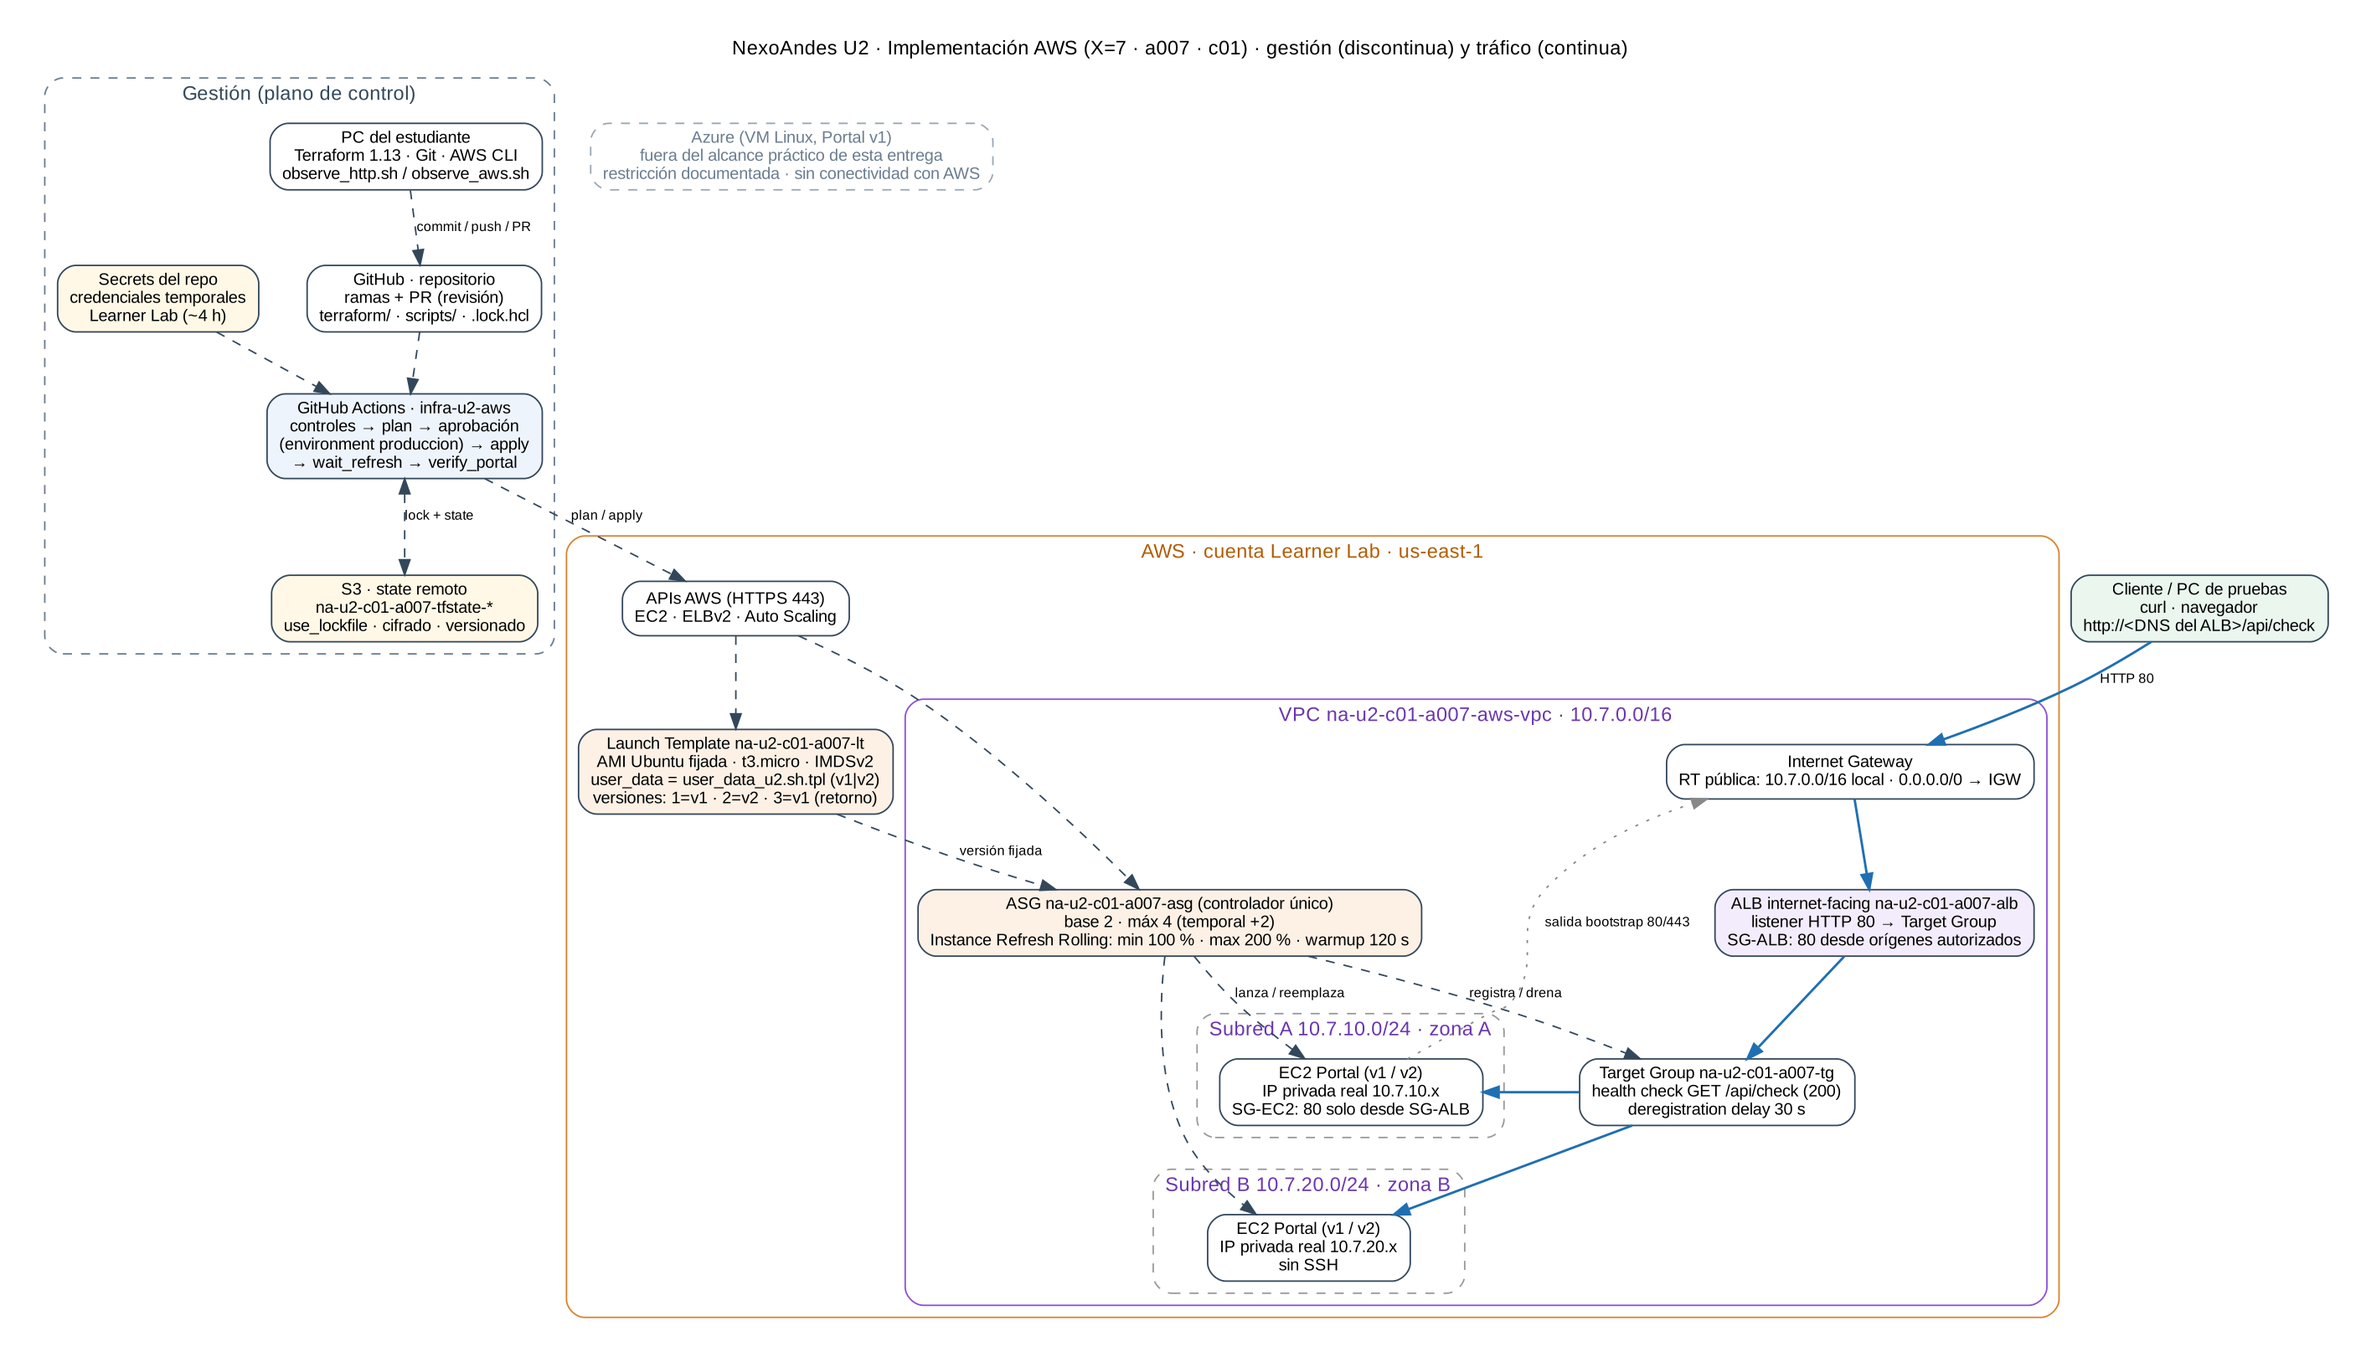
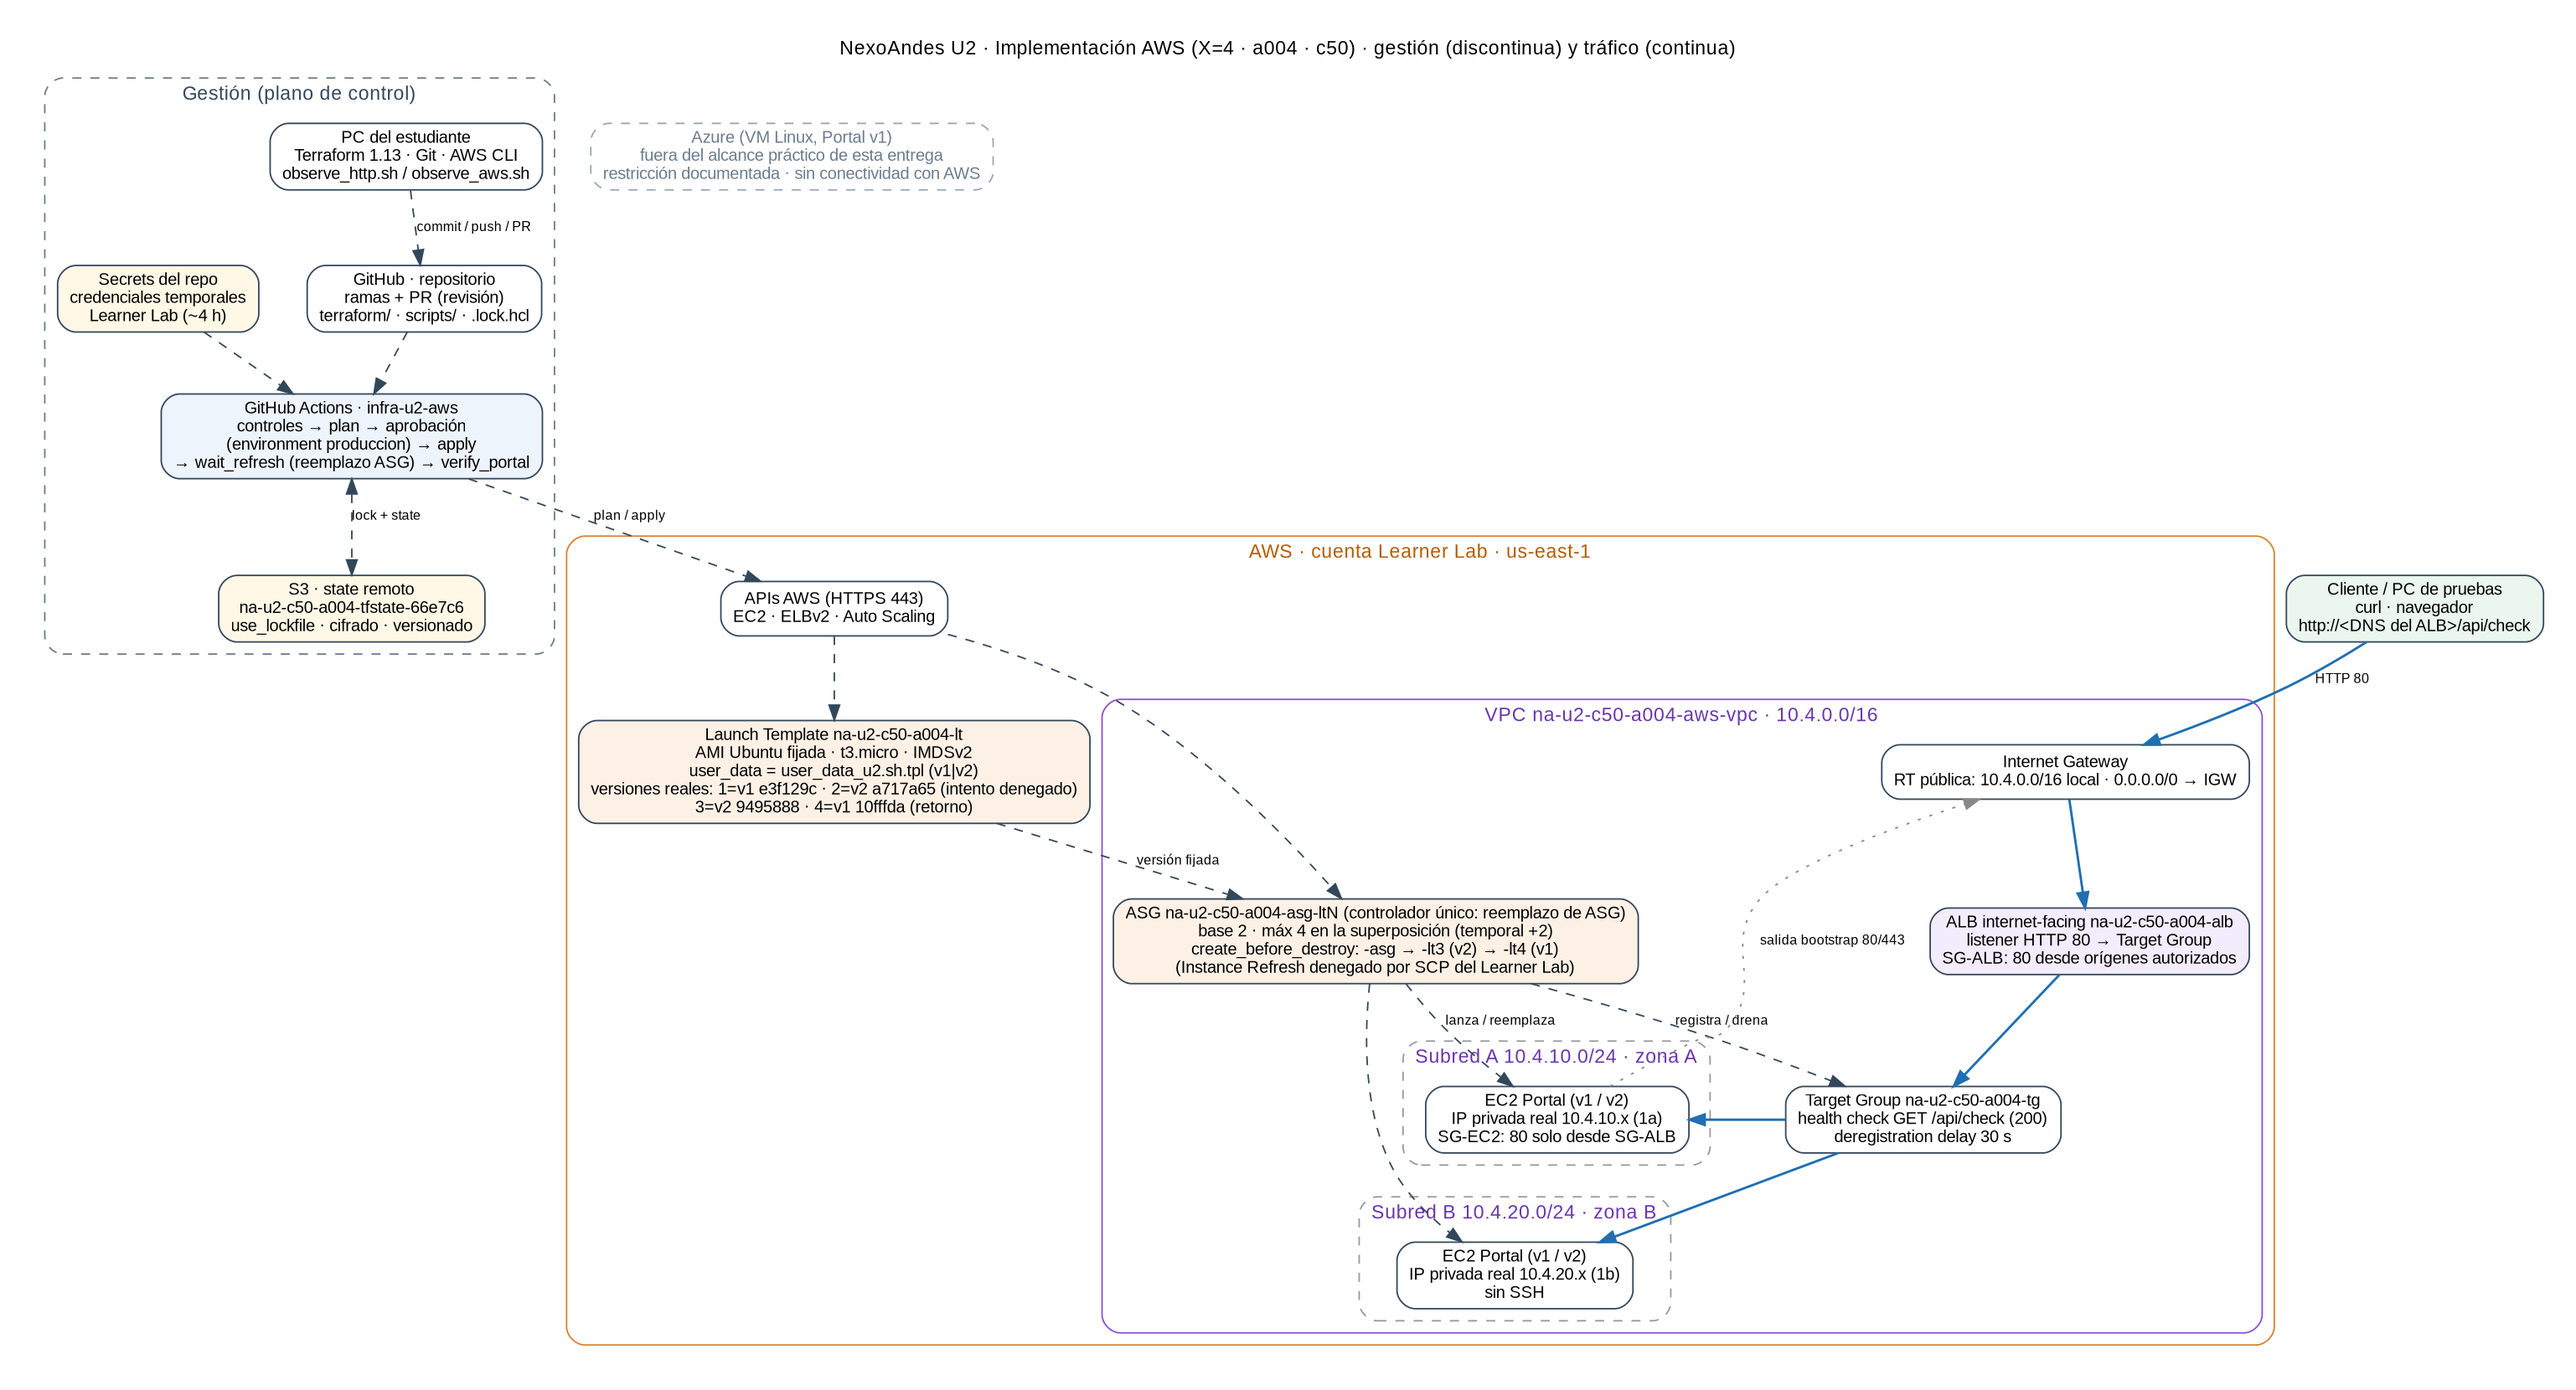
docs: diagrama con valores reales, decisiones adaptadas y declaración de IA

diff --git a/README.md b/README.md
@@ -10,7 +10,7 @@ Identidad de laboratorio: **X=4 · alumno a004 · curso c50** · prefijo `na-u2-
 |---|---|
 | `terraform/` | Orquestación root: `versions.tf`, `providers.tf`, `variables.tf`, `main.tf`, `outputs.tf`, `terraform.tfvars`, `.terraform.lock.hcl` |
 | `terraform/modules/aws_network` | VPC 10.X.0.0/16, subred A 10.X.10.0/24 y B 10.X.20.0/24 en zonas distintas, IGW y rutas |
-| `terraform/modules/aws_portal` | SG-ALB / SG-EC2, ALB + listener HTTP 80, Target Group (`/api/check`), Launch Template versionada (IMDSv2), ASG con Instance Refresh |
+| `terraform/modules/aws_portal` | SG-ALB / SG-EC2, ALB + listener HTTP 80, Target Group (`/api/check`), Launch Template versionada (IMDSv2), ASG `-asg-ltN` reemplazado por versión (create_before_destroy) |
 | `terraform/templates/user_data_u2.sh.tpl` | Artefacto docente del Portal (sin modificar), renderizado con `templatefile()` |
 | `.github/workflows/infra-u2.yml` | Pipeline: controles → plan → aprobación (`produccion`) → apply → espera del controlador → verificación |
 | `scripts/` | Observación (`observe_http.sh`, `observe_aws.sh`), análisis (`analyze_window.py`), consultas independientes (`capture_state.sh`, `refresh_times.sh`, `verify_cleanup.sh`), espera/verificación del pipeline, higiene y ZIP |
@@ -29,7 +29,7 @@ flowchart LR
     GA <-- lock/state --> S3[(S3 state<br/>use_lockfile)]
   end
   GA -. API AWS .-> LT[Launch Template<br/>v1/v2 versionada]
-  GA -. API AWS .-> ASG[ASG base 2 / máx 4<br/>Instance Refresh]
+  GA -. API AWS .-> ASG[ASG -asg-ltN base 2 / máx 4<br/>reemplazo create_before_destroy]
   LT -.-> ASG
   subgraph VPC["VPC 10.4.0.0/16"]
     IGW[IGW] --> ALB[ALB :80] --> TG[Target Group<br/>/api/check]
@@ -49,10 +49,15 @@ entre nubes.
 
 ## 3. Decisiones principales
 
-- **Estrategia:** rolling con *Instance Refresh* (min healthy 100 %, max healthy 200 %): se lanzan instancias
-  nuevas antes de retirar las anteriores; capacidad base 2, temporal hasta +2.
-- **Controlador único:** el Instance Refresh del ASG. Terraform lo inicia al cambiar la versión de la
-  Launch Template; `scripts/wait_refresh.sh` espera su resultado real (el éxito de `apply` no basta).
+- **Estrategia (adaptada):** la estrategia planificada era rolling con *Instance Refresh*, pero la SCP de la
+  cuenta del Learner Lab **deniega `autoscaling:StartInstanceRefresh`** (run 44933633166, ver bitácora y adenda §9
+  de `docs/plan_cambio_u2.md`). Se implementó un **reemplazo inmutable del ASG**: el nombre del ASG incluye la
+  versión de la Launch Template (`na-u2-c50-a004-asg-ltN`) y usa `create_before_destroy`; el ASG nuevo se registra
+  en el mismo Target Group, Terraform espera 2 destinos healthy (`min_elb_capacity`) y solo entonces elimina el
+  anterior. Capacidad base 2, temporal hasta +2 (4 durante la superposición).
+- **Controlador único:** Terraform desde el pipeline (crear ASG nuevo → esperar → eliminar el anterior);
+  `scripts/wait_refresh.sh` espera el resultado real (un solo ASG, destinos healthy en la versión nueva).
+  Si el ASG nuevo no alcanza la capacidad, el apply falla y el anterior sigue atendiendo (detención automática).
 - **Inmutabilidad:** cada versión del Portal es una versión nueva de la Launch Template (AMI fijada +
   bootstrap + `portal_version` + `build_ref`). No hay cambios manuales en instancias ni acceso SSH.
 - **Persistencia:** el Portal no guarda datos de negocio; las instancias son reemplazables.
@@ -74,7 +79,7 @@ terraform plan -var "build_ref=$(git log -1 --format=%h -- .)"
 # Observación de un cambio (desde la raíz del repo)
 bash scripts/observe_http.sh "http://<DNS-ALB>" actualizacion_v2
 bash scripts/observe_aws.sh  na-u2-c50-a004     actualizacion_v2
-bash scripts/refresh_times.sh na-u2-c50-a004
+bash scripts/refresh_times.sh na-u2-c50-a004    # inicio/fin del reemplazo de ASG
 python3 scripts/analyze_window.py --http evidencias/<...>_http.csv --aws evidencias/<...>_aws.csv \
   --start <InicioUTC> --stable <EstableUTC> --from-version v1 --target v2 \
   --student a004 --course c50 --x 4 --base 2 --out evidencias/analisis_v2.md
@@ -84,7 +89,9 @@ Los despliegues evaluados se ejecutan **solo por el pipeline** (merge a `main` o
 
 ## 5. Referencias
 
-- AWS — Instance refresh: https://docs.aws.amazon.com/autoscaling/ec2/userguide/asg-instance-refresh.html
+- AWS — Instance refresh (estrategia planificada, denegada por SCP en el Learner Lab): https://docs.aws.amazon.com/autoscaling/ec2/userguide/asg-instance-refresh.html
+- AWS — Service control policies: https://docs.aws.amazon.com/organizations/latest/userguide/orgs_manage_policies_scps.html
+- Terraform — `create_before_destroy`: https://developer.hashicorp.com/terraform/language/meta-arguments/lifecycle
 - AWS — User data e IMDSv2: https://docs.aws.amazon.com/AWSEC2/latest/UserGuide/user-data.html
 - Terraform — `aws_autoscaling_group`: https://registry.terraform.io/providers/hashicorp/aws/latest/docs/resources/autoscaling_group
 - Terraform — Backend S3 (`use_lockfile`): https://developer.hashicorp.com/terraform/language/backend/s3
@@ -92,6 +99,17 @@ Los despliegues evaluados se ejecutan **solo por el pipeline** (merge a `main` o
 
 ## 6. Declaración de uso de IA
 
-Se utilizó Claude (Anthropic) para generar la guía de trabajo, el código base de Terraform, el pipeline,
-los scripts de observación y la plantilla de la Ficha. El código fue revisado, ejecutado y ajustado por el
-estudiante; las ejecuciones, registros y capturas son propios. *(Ajustar este texto a su uso real.)*
+Se utilizó Claude (Anthropic) en dos momentos:
+
+1. **Material docente:** la guía de trabajo, el código base de Terraform, el pipeline, los scripts de
+   observación y la plantilla de la Ficha fueron generados con Claude (código base entregado).
+2. **Ejecución del laboratorio:** Claude Code (asistente en terminal) ejecutó, bajo supervisión del estudiante,
+   los pasos en el equipo Ubuntu: instalación de herramientas, creación del bucket del state, configuración del
+   environment y la protección de rama por la API de GitHub, ramas/commits/PR, observadores y análisis.
+   También diagnosticó los dos incidentes (rol vinculado de Auto Scaling y SCP que deniega Instance Refresh) y
+   propuso/implementó las adaptaciones: `pipefail` en el pipeline, controlador por reemplazo de ASG, ajustes en
+   los scripts (`lib.sh`, `observe_aws.sh`, `wait_refresh.sh`, `refresh_times.sh`, `capture_state.sh`,
+   `verify_cleanup.sh`) y la adenda del plan de cambio.
+
+Las **aprobaciones de despliegue** en el environment `produccion`, las decisiones ante cada incidente y las
+capturas de pantalla fueron realizadas por el estudiante. Los registros provienen de ejecuciones reales.
